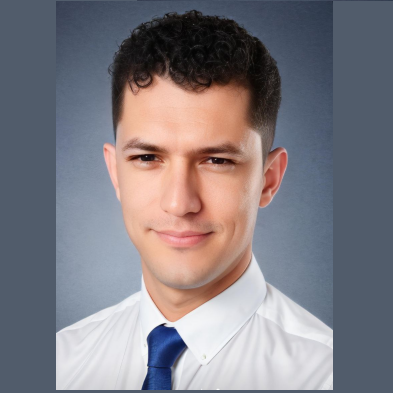
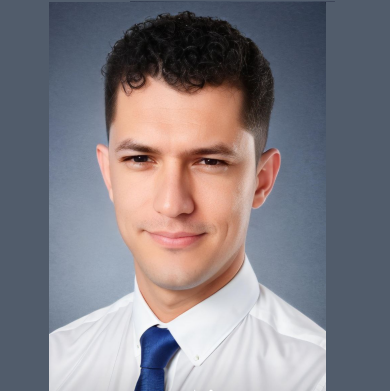
portfolio enhacement version and fixes

diff --git a/components/Common/Intro/index.jsx b/components/Common/Intro/index.jsx
@@ -8,14 +8,22 @@ import Tools from './Tools';
 import Skills from './Skills';
 import Image from 'next/image';
 import { NAME, DESIGNATION, SOCIAL_LINKS } from '../../../constants/constants';
-import Osama from '../../../public/images/profile03.png';
+import Romero from '../../../public/images/bryan_romero.png';
 
 const Intro = () => {
   return (
     <>
       {/* fixed at top */}
       <div className='headerr z-50 absolute bg-MidNightBlack backdrop-blur-sm inset-y-0 h-48 top-0 flex items-center justify-center w-full flex-col px-4 gap-y-4'>
-        <Image className='w-20 h-20 rounded-full' src={Osama} alt='profile picture' />
+      <div className='image-container relative w-20 h-20'>
+        <Image
+          className='rounded-full'
+          src={Romero}
+          alt='profile picture'
+          layout='fill'
+          objectFit='contain'
+        />
+      </div>
         <div className='flex flex-col items-center justify-center'>
           <span className='text-gray-300 text-base font-bold break-normal'>{NAME}</span>
           <span className='text-sm text-LightGray text-center mt-2'>{DESIGNATION}</span>

diff --git a/components/HomeComponents/Expertise/MyExpertise.jsx b/components/HomeComponents/Expertise/MyExpertise.jsx
@@ -4,12 +4,10 @@ import axios from "axios";
 import ParagraphSkeleton from "../../Common/ParagraphSkeleton";
 import expertiseData from "../../../data/expertise.json"
 
+
 const MyExpertise = () => {
 
-    const { isLoading, error, data } = useQuery('expertise', () =>
-        axios.get('api/expertise')
-            .then(({ data }) => data)
-            .catch(error => console.error('Error fetching testimonials:', error)))
+    const data = expertiseData;
 
     return (
         <>
@@ -21,7 +19,6 @@ const MyExpertise = () => {
                         <ExpertiseCard key={key} data={item} />
                     ))
                 }
-
             </div>
         </>
     )

diff --git a/pages/contact.jsx b/pages/contact.jsx
@@ -108,7 +108,7 @@ const Contact = () => {
             >
                 <div className='flex flex-col items-center justify-center'>
                     <h1 className='text-Green font-bold text-2xl'>In Progress</h1>
-                    <a className='underline text-Snow' target='_blank' href='https://github.com/osamajavaid/portfolio'>Be the one to integrate this!</a>
+                    {/* <a className='underline text-Snow' target='_blank' href='https://github.com/osamajavaid/portfolio'>Be the one to integrate this!</a> */}
                 </div>
             </Modal>
             <Footer />

diff --git a/constants/constants.js b/constants/constants.js
@@ -10,7 +10,7 @@ export const DETAILS = {
 
 export const SKILLS = [
   {
-    title: 'Python Stack Developer',
+    title: 'Full Stack Developer',
     level: '80%',
   },
   {
@@ -29,6 +29,11 @@ export const SKILLS = [
     title: 'DevOps',
     level: '83%',
   },
+  {
+    title: 'Database',
+    level: '70%',
+  },
+
 ];
 
 export const TECH_STACK = [
@@ -40,6 +45,8 @@ export const TECH_STACK = [
   'Golang',
   'GNU/Linux',
   'Kubernetes',
+  'ChartJS',
+  'D3JS',
   'CSS',
   'SCSS',
   'TailwindCSS',

diff --git a/pages/layout.js b/pages/layout.js
@@ -52,7 +52,7 @@ export default function Layout({ children }) {
             </span>
           </div>
           <span className='absolute top-1/2 left-1/2 -translate-x-1/2 -translate-y-1/2 rotate-90 flex items-center justify-center text-center text-xl text-gray-600 font-extrabold tracking-widest'>
-            NavBar
+            Portfolio
           </span>
         </div>
         {<Nav isOpen={isOpen} setIsOpen={setIsOpen} />}

diff --git a/pages/index.jsx b/pages/index.jsx
@@ -3,6 +3,7 @@ import Banner from '../components/HomeComponents/Banner';
 import MyExpertise from '../components/HomeComponents/Expertise/MyExpertise';
 import Recommendations from '../components/HomeComponents/Recommendations/Recommendations';
 import ClientReviews from '../components/HomeComponents/ClientReviews/ClientReviews';
+
 const home = () => {
     return (
         <div className="Home-Page -z-10">
